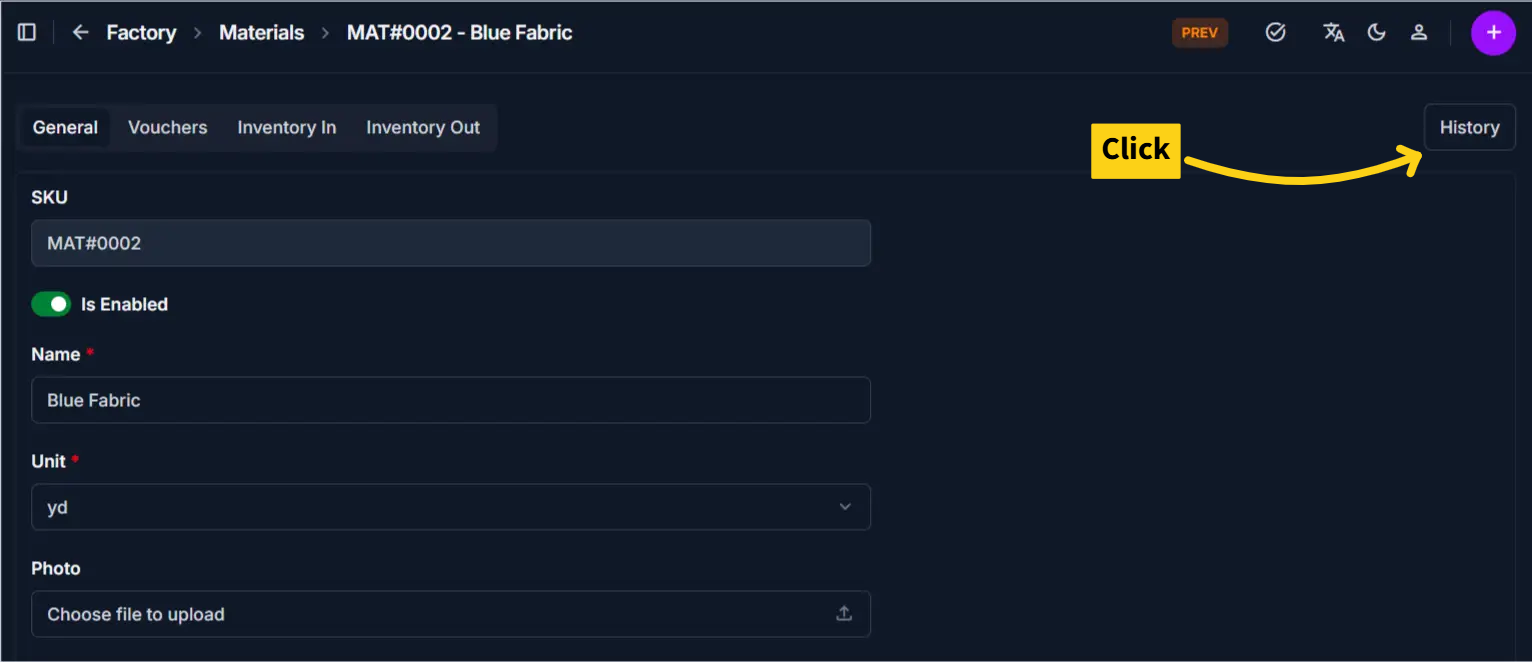
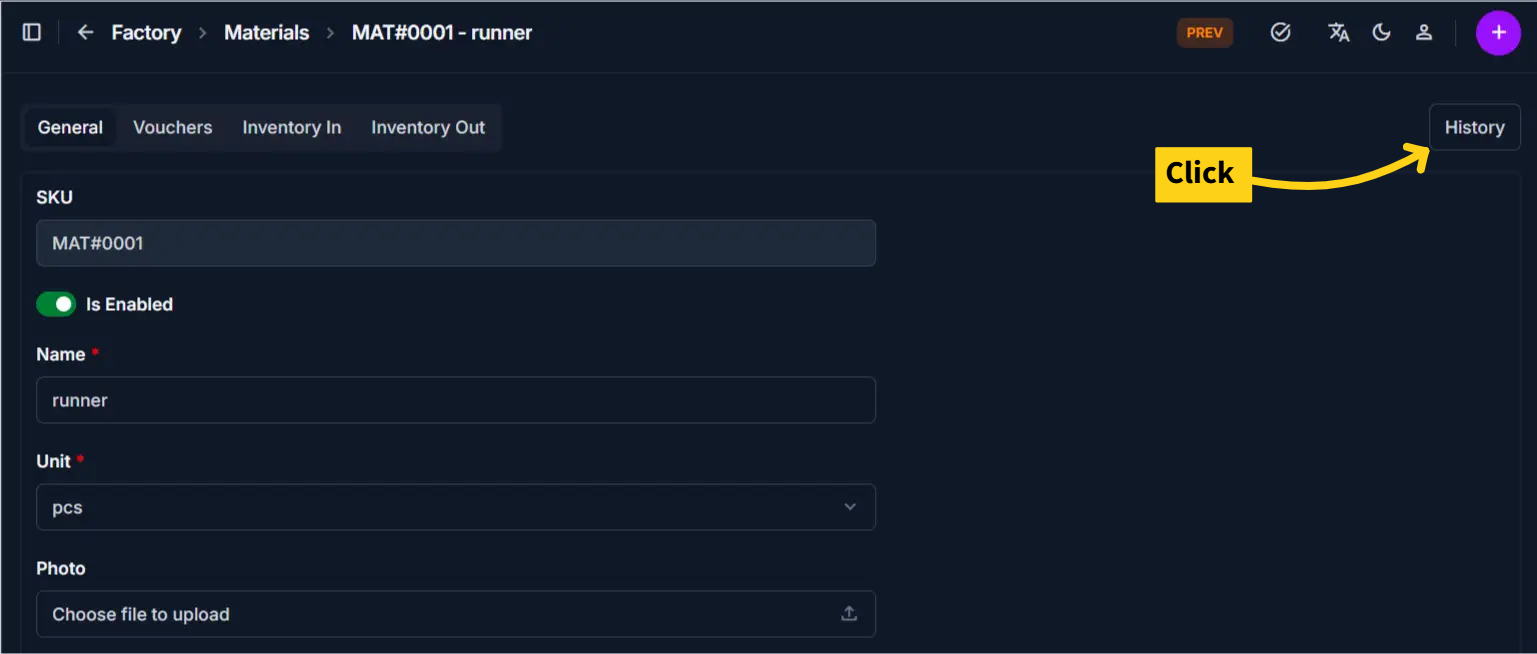
updated:edit-material

diff --git a/docs/user-guide/02-factory/materials/edit-material.md b/docs/user-guide/02-factory/materials/edit-material.md
@@ -30,6 +30,8 @@ ______________________________________________________________________
 
 ## General Information
 
+![General Information](material-general-tab.png)
+
 ### Editable Fields
 
 | Field       | Description                              |
@@ -71,7 +73,7 @@ ______________________________________________________________________
 
 ## Overview
 
-![History Page](material-history.png)
+![History Page](material-history-page.png)
 
 This page displays a chronological list of all actions performed on a material object (e.g., `MAT#0001 - runner`).
 

diff --git a/docs/user-guide/02-factory/materials/add-material.md b/docs/user-guide/02-factory/materials/add-material.md
@@ -24,7 +24,7 @@ ______________________________________________________________________
 
 ## General Information
 
-![Add Material](add-material.png)
+![Add Material](material-general-tab.png)
 
 ### Fields
 
